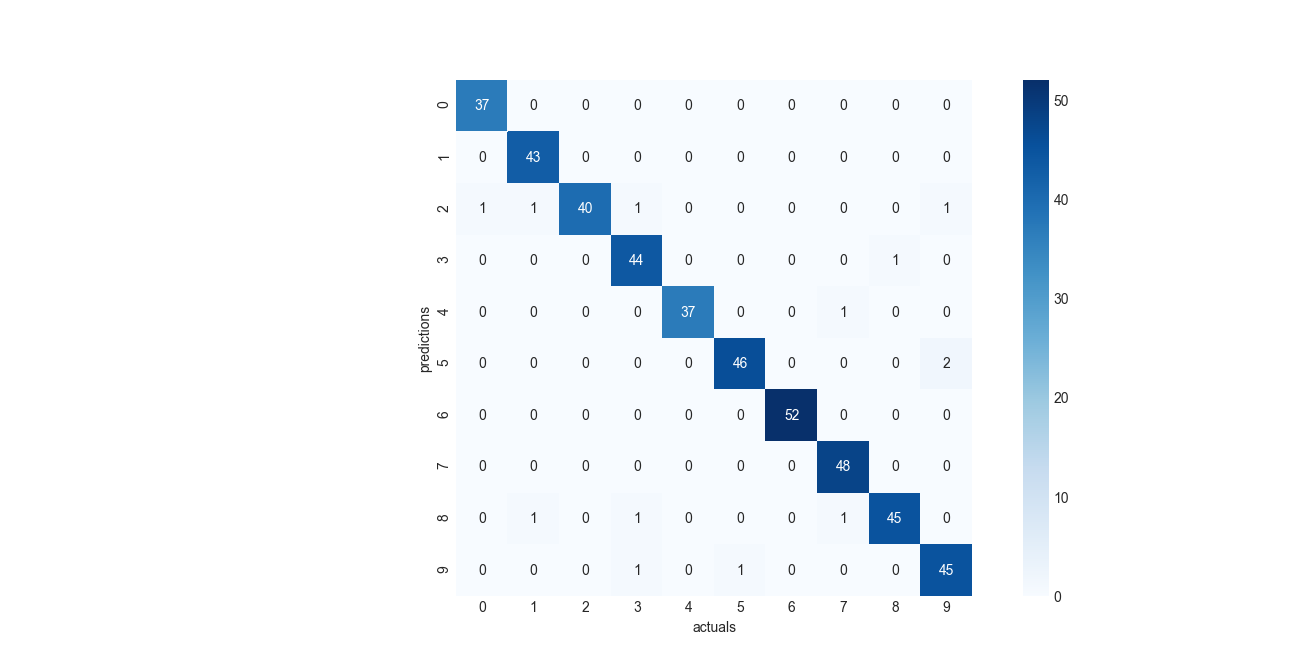
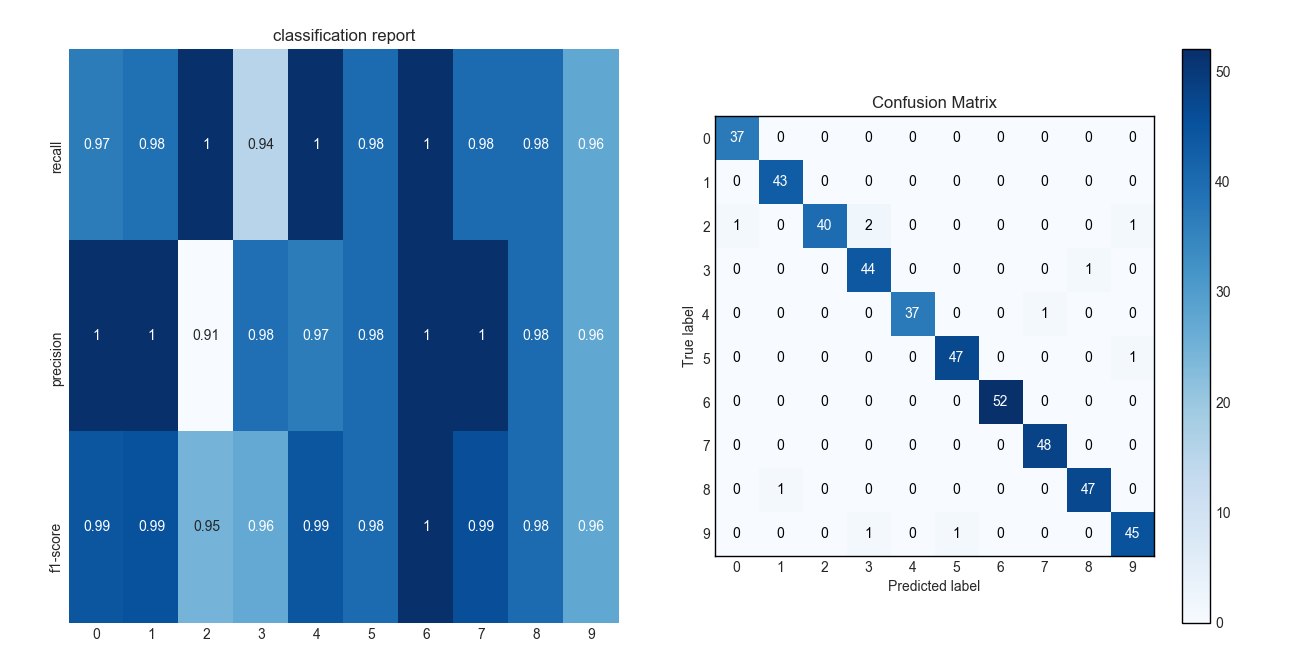
modified plotting facilities for classifiers

diff --git a/random_forest_classifier/src/rfc.py b/random_forest_classifier/src/rfc.py
@@ -2,11 +2,16 @@ import math
 import matplotlib.pyplot as plt
 import numpy as np
 import seaborn as sns
+import scikitplot as skplt
 from random_forest_classifier.src.rfc_utils import *
 from sklearn.metrics import classification_report, confusion_matrix
-from sklearn.datasets import load_digits
+from sklearn.metrics import precision_recall_fscore_support
+
 
 plt.style.use('seaborn-dark')
+plt.rcParams["axes.edgecolor"] = "black"
+plt.rcParams["axes.linewidth"] = 1
+
 
 def main(data_df):
     assert isinstance(data_df, pd.DataFrame)
@@ -22,7 +27,6 @@ def main(data_df):
     print("getting predictions...")
     test_pred = get_prediction(rf_model, train_features, test_features)
 
-    
     print("\nprinting summary:")
     print_summary(rf_model, features_names, test_actuals, test_pred)
     plot_predictions(test_actuals, test_pred)
@@ -34,15 +38,24 @@ def print_summary(rf_model, features_names, test_actuals, test_pred):
     print("\nfeatures importance")
     print(feature_importances)
 
-def plot_predictions(test_actuals, test_pred, normalise=False):
+
+def plot_predictions(test_actuals, test_pred):
     assert len(test_pred) == len(test_actuals)
-    cm = confusion_matrix(test_actuals, test_pred)
-    if normalise:
-        cm = cm.astype('float')/cm.sum(axis=1)[:, np.newaxis]
-        
-    sns.heatmap(cm, square=True, annot=True, cbar=True, cmap="Blues")
-    plt.xlabel('actuals')
-    plt.ylabel('predictions');
+    fig, (ax1, ax2) = plt.subplots(1,2)   
+    sns.heatmap(precision_recall_fscore_support(test_actuals, test_pred)[:-1],
+                annot=True, 
+                cbar=False, 
+                xticklabels=list(np.unique(test_actuals)), 
+                yticklabels=['recall', 'precision', 'f1-score'],
+                ax=ax1,
+                cmap='Blues')
+    ax1.set_title('classification report') 
+
+    skplt.metrics.plot_confusion_matrix(test_actuals, test_pred, 
+                                        normalize=False, 
+                                        ax=ax2)
+
+    plt.tight_layout()
     plt.show()
 
 

diff --git a/README.md b/README.md
@@ -8,6 +8,8 @@ A collection of algorithms and utilities for data science
 
 #
 #
-![Alt text](gallery/regression_forest.png?raw=true "regression_forest")
+![Alt text](gallery/regression_forest.png?raw=true  "regression_forest")
 
 ![Alt text](gallery/ARIMA.png?raw=true "ARIMA")
+
+![Alt text](gallery/cm.png?raw=true "cm")
